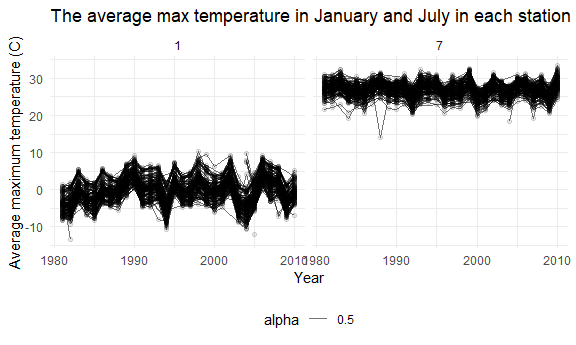
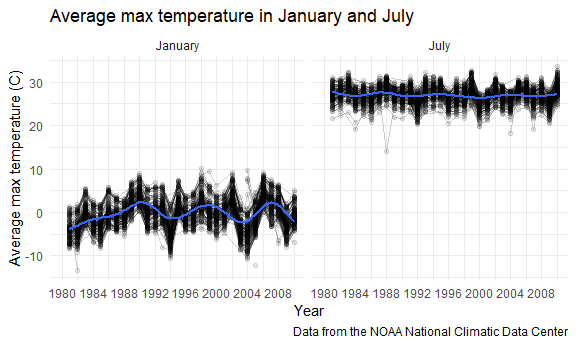
Problem 3: make three plots.

diff --git a/p8105_hw3_cz2612.md b/p8105_hw3_cz2612.md
@@ -224,7 +224,7 @@ counts than other time.
 
 ## Problem 3
 
-Load and describe the data.
+Load and describe the NY NOAA data.
 
 ``` r
 data("ny_noaa")
@@ -245,6 +245,7 @@ ny_noaa =
     janitor::clean_names() %>% 
   separate(date, into = c("year", "month", "day"), convert = TRUE) %>% 
     mutate(
+      id = as.factor(id),
       tmax = as.numeric(tmax),
       tmin = as.numeric(tmin),
       prcp = prcp / 10,
@@ -267,3 +268,89 @@ snow_freq_df =
 For snowfall, the most commonly observed values are 0, because there are
 2008508 observations have a snow value of 0, which are the most
 frequent.
+
+Make a two-panel plot showing the average max temperature in January and
+in July in each station across years.
+
+``` r
+ny_noaa %>% 
+  group_by(id, year, month) %>% 
+  summarise(mean_tmax = mean(tmax, na.rm = TRUE)) %>% 
+  filter(month %in% c(1,7)) %>% 
+    mutate(month = month.name[month]) %>%   
+  ggplot(aes(x = year, y = mean_tmax)) + 
+    geom_point(alpha = .1) + 
+    geom_path(aes(group = id), alpha = .2) + 
+    geom_smooth(se = FALSE) + 
+    facet_grid(. ~ month) + 
+    labs(
+      title = "Average max temperature in January and July", 
+      x = "Year", 
+      y = "Average max temperature (C)",
+      caption = "Data from the NOAA National Climatic Data Center"
+    ) + 
+    scale_x_continuous(
+      limits = c(1980, 2010),
+      n.breaks = 10
+    )
+```
+
+    ## `summarise()` regrouping output by 'id', 'year' (override with `.groups` argument)
+
+    ## `geom_smooth()` using method = 'gam' and formula 'y ~ s(x, bs = "cs")'
+
+    ## Warning: Removed 5970 rows containing non-finite values (stat_smooth).
+
+    ## Warning: Removed 5970 rows containing missing values (geom_point).
+
+    ## Warning: Removed 5931 row(s) containing missing values (geom_path).
+
+<img src="p8105_hw3_cz2612_files/figure-gfm/mean_tmax_plot-1.png" width="90%" />
+
+Across these years, the average max temperatures in July are much higher
+than those in January. The average max temperatures in July are more
+stable, while the average max temperatures in January have relatively
+bigger fluctuations. There are also many outliers. The most obvious
+outliers in January are in 1982, 1993, 1999, 2000, 2004, 2005, and 2008.
+The most obvious outliers in July are in 1981, 1982, 1983, 1984, 1988,
+1989, 2004, and 2007. From the graphs, we could not see any trend of
+global warming across these years.
+
+Make two plots.
+
+``` r
+tmax_tmin_plot = 
+  ny_noaa %>% 
+  ggplot(aes(x = tmax, y = tmin)) + 
+    geom_hex() + 
+    labs(
+      title = "Max temperature vs Min temperature",
+      x = "Max temperature (C)",
+      y = "Min temperature (C)",
+      caption = "Data from the NOAA National Climatic Data Center"
+    ) + 
+    theme(legend.position = "right")
+
+snowfall_plot = 
+  ny_noaa %>% 
+  filter(snow > 0 & snow < 100) %>% 
+  ggplot(aes(x = year, y = snow, group = year)) + 
+  geom_boxplot() + 
+  labs(
+    title = "Snowfall distribution",
+    x = "Year",
+    y = "Snowfall (mm)",
+    caption = "Data from the NOAA National Climatic Data Center"
+  )
+
+tmax_tmin_plot + snowfall_plot
+```
+
+    ## Warning: Removed 1136276 rows containing non-finite values (stat_binhex).
+
+<img src="p8105_hw3_cz2612_files/figure-gfm/two_plots-1.png" width="90%" />
+
+From the graphs, we could see that there may be a linear correlation
+between the max temperature and min temperature, and the snowfall values
+tend to have similar distributions across the years, with year 1998,
+2006, 2010 being somewhat different.
